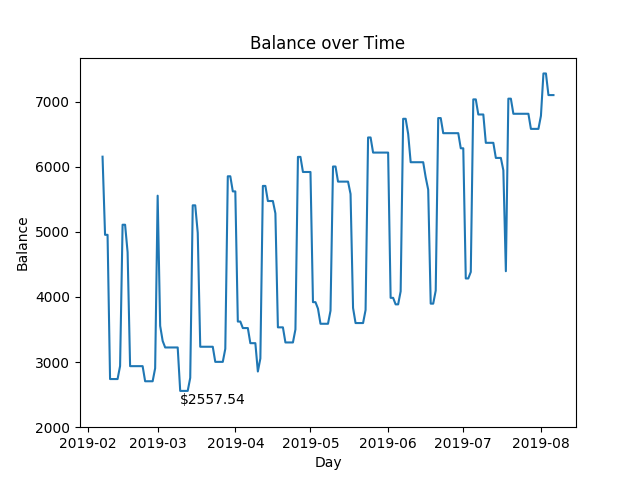
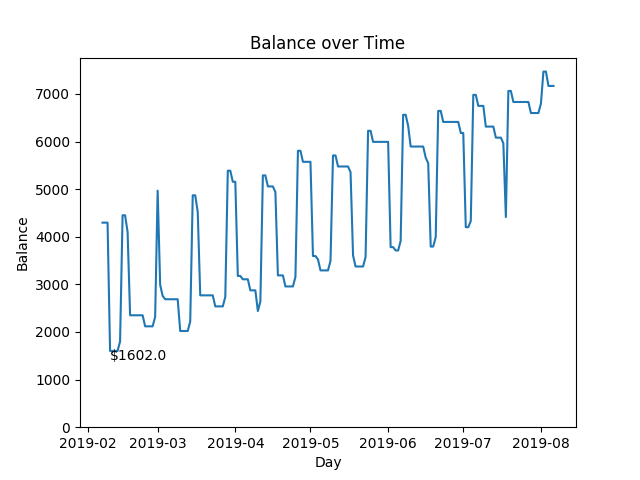
Daily Changes: Feb 7 and 9, 2019

diff --git a/output/html/2019-02-09.html b/output/html/2019-02-09.html
@@ -12,11 +12,11 @@
     
     </style>
     <div>
-        <h1>Financial Status as of 2019-02-07</h1>
+        <h1>Financial Status as of 2019-02-09</h1>
         <br />
         <div>
-            <img src="///Users/jacob/personal/adder/output/2019-02-07.png" />
-            <img src="///Users/jacob/personal/adder/output/budget-2019-02-07.png"/>
+            <img src="///Users/jacob/personal/adder/output/2019-02-09.png" />
+            <img src="///Users/jacob/personal/adder/output/budget-2019-02-09.png"/>
         </div>
         <div>
             <table>
@@ -26,7 +26,7 @@
 <tbody>
 <tr><td>debt      </td><td style="text-align: right;">-1750</td><td style="text-align: right;">     30.7 </td></tr>
 <tr><td>rent      </td><td style="text-align: right;">-1899</td><td style="text-align: right;">     33.32</td></tr>
-<tr><td>bill      </td><td style="text-align: right;"> -704</td><td style="text-align: right;">     12.35</td></tr>
+<tr><td>bill      </td><td style="text-align: right;"> -670</td><td style="text-align: right;">     11.75</td></tr>
 <tr><td>travel    </td><td style="text-align: right;"> -528</td><td style="text-align: right;">      9.26</td></tr>
 <tr><td>food      </td><td style="text-align: right;"> -400</td><td style="text-align: right;">      7.02</td></tr>
 </tbody>
@@ -37,20 +37,20 @@
 <tr><th>Stat           </th><th style="text-align: right;">  Value</th></tr>
 </thead>
 <tbody>
-<tr><td>MinimumBalance </td><td style="text-align: right;">   1602</td></tr>
-<tr><td>AverageBalance </td><td style="text-align: right;">   4561</td></tr>
-<tr><td>DipInCurrentBal</td><td style="text-align: right;">   2695</td></tr>
+<tr><td>MinimumBalance </td><td style="text-align: right;">   1363</td></tr>
+<tr><td>AverageBalance </td><td style="text-align: right;">   4469</td></tr>
+<tr><td>DipInCurrentBal</td><td style="text-align: right;">   3345</td></tr>
 </tbody>
 </table>
             <br>
             <table>
 <tbody>
-<tr><td>Expenses</td><td style="text-align: right;">-5281</td></tr>
+<tr><td>Expenses</td><td style="text-align: right;">-5247</td></tr>
 <tr><td>Income  </td><td style="text-align: right;"> 5700</td></tr>
 </tbody>
 </table>
             <br>
         </div>
-        We bought LEDs, kitchen ware, upped our monthly rent by $200 and spent $1700 to switch appartments
+        Sold tires, downgraded comcast, resumed 8 hour weeks for booper.
     </div>
     

diff --git a/data/reality.py b/data/reality.py
@@ -2,60 +2,61 @@
 
 # stdlib
 from datetime import datetime
-from dateutil.relativedelta import relativedelta
 from tabulate import tabulate
-from scratchpad.build_html import make_html
+from dateutil.relativedelta import relativedelta
 
 # local
 from delta import Account
-from delta import BalanceSheet
+from delta import Report
 from delta import Schedule
 from delta import Once
 from delta import Transaction
-from delta import TransactionSet
+from delta import Log
+from delta import Monthly
+from scratchpad.build_html import make_html
 
-# Income
-Bridgewater = Schedule(start=datetime(2019,1,18), interval=relativedelta(weeks=2))
-ChickFilA = Schedule(start=datetime(2019,1,17), interval=relativedelta(weeks=2))
 
-# Schedules
-MonthlyOn = lambda day: Schedule(start=datetime(2019,1,day), interval=relativedelta(months=1))
-EverySunday = Schedule(start=datetime(2019,1,20), interval=relativedelta(weeks=1))
-RyanKautz = Schedule(start=datetime(2019,1,18), interval=relativedelta(months=1), end=datetime(2019,8,1))
+####### REPORT SCHEDULES
+Bridgewater     = Schedule(start=datetime(2019,1,18), interval=relativedelta(weeks=2))
+ChickFilA       = Schedule(start=datetime(2019,1,17), interval=relativedelta(weeks=2))
+Weekly          = Schedule(start=datetime(2019,1,20), interval=relativedelta(weeks=1))
+RyanKautz       = Schedule(start=datetime(2019,1,18), interval=relativedelta(months=1), end=datetime(2019,8,1))
 
+####### ACCOUNTS
 accounts = [
-    Account(name="360 Checking",    balance=118),
-    Account(name="360 Savings",     balance=4179),
+
+    Account(name="Checking", balance=149),
+    Account(name="Savings", balance=4559)
+
 ]
 
-transactions = [
-    # Income
-    Transaction(name="Bridgewater",     category="income",      schedule=Bridgewater,       value=2650,     monthly=5300),
-    Transaction(name="ChickFilA",       category="income",      schedule=ChickFilA,         value=100,      monthly=200),
+####### TRANSACTIONS
+txs = [
 
-    # Expenses
-    Transaction(name="Ryan",            category="debt",         schedule=RyanKautz,        value=-1750),
-    Transaction(name="1KennedyFlats",   category="rent",         schedule=MonthlyOn(2),     value=-1899,    autopay=True),
-    Transaction(name="1KF-Utils",       category="rent",         schedule=MonthlyOn(2),     value=-80,      autopay=True),
-    Transaction(name="Sprint",          category="bills",        schedule=MonthlyOn(10),    value=-435,     autopay=True),
-    Transaction(name="Eversource",      category="bills",        schedule=MonthlyOn(4),     value=-70,      autopay=True),
-    Transaction(name="Comcast",         category="bills",        schedule=MonthlyOn(17),    value=-119,     autopay=False),
-    Transaction(name="Transport",       category="transport",    schedule=EverySunday,      value=-132,     monthly=-528),
-    Transaction(name="Food",            category="food",         schedule=EverySunday,      value=-100,     monthly=-400),
+    Transaction(name="Bridgewater",     category="income",  schedule=Bridgewater,       value=2650,     monthly=5300),       ### INCOME
+    Transaction(name="ChickFilA",       category="income",  schedule=ChickFilA,         value=200,      monthly=400),
+    
+    Transaction(name="Ryan",            category="debt",    schedule=RyanKautz,         value=-1750,    autopay=False),      ### BILLS
+    Transaction(name="1KF",             category="rent",    schedule=Monthly(2),        value=-1899,    autopay=True),
+    Transaction(name="1KF-Util",        category="bill",    schedule=Monthly(2),        value=-80,      autopay=True),
+    Transaction(name="Sprint",          category="bill",    schedule=Monthly(10),       value=-435,     autopay=True),
+    Transaction(name="Eversource",      category="bill",    schedule=Monthly(4),        value=-70,      autopay=True),
+    Transaction(name="Comcast",         category="bill",    schedule=Monthly(17),       value=-85,      autopay=False),
+    Transaction(name="Transport",       category="travel",  schedule=Weekly,            value=-132,     monthly=-528),
+    Transaction(name="Food",            category="food",    schedule=Weekly,            value=-100,     monthly=-400),
+    
+    Transaction(name="Fair",            category="once",    schedule=Once(2019,2,10),   value=-545),                         ### WINDFALLS
+    Transaction(name="HalfFair",        category="once",    schedule=Once(2019,2,10),   value=-280),
+    Transaction(name="TowCar",          category="once",    schedule=Once(2019,2,10),   value=-200),
+    Transaction(name="Mechanic",        category="once",    schedule=Once(2019,2,10),   value=-1875),
+    Transaction(name="CTTaxReturn",     category="once",    schedule=Once(2019,2,10),   value=222)
 
-    # Windfalls
-    Transaction(name="Fair",            category="once",        schedule=Once(2019,2,10),   value=-545),
-    Transaction(name="HalfFair",        category="once",        schedule=Once(2019,2,15),   value=-280),
-    Transaction(name="TowCar",          category="once",        schedule=Once(2019,2,15),   value=-200),
-    Transaction(name="Mechanic",        category="once",        schedule=Once(2019,2,10),   value=-1875),
-    Transaction(name="CTTaxReturn",     category="once",        schedule=Once(2019,2,10),   value=222)
 ]
 
-REPORT_LEGTH_MONTHS = 6
-SHOW_ROWS = 15
+REPORT_LENGTH = 6
 
-tx_set = TransactionSet(transactions=transactions, end=datetime.today() + relativedelta(months=REPORT_LEGTH_MONTHS))
-bal = BalanceSheet(log=tx_set.log, accounts=accounts)
+tx_set = Log(transactions=txs, end=datetime.today() + relativedelta(months=REPORT_LENGTH))
+bal = Report(log=tx_set.log, accounts=accounts)
 
 if __name__ == "__main__":
 

diff --git a/Delta/report.py b/Delta/report.py
@@ -17,6 +17,7 @@ class TransactionSet:
         self.date = datetime.now()
         self.date = self.date.replace(hour=0, minute=0, second=0, microsecond=0)
         self.transactions = kwargs.get("transactions")
+        self.budget = self.get_budget()
 
     def day_range(self):
         i = 0
@@ -37,7 +38,6 @@ class TransactionSet:
 
     def budget_plot(self):
         budget = self.budget["budget"]
-        total = self.budget["expenses"]
         # Pie chart, where the slices will be ordered and plotted counter-clockwise:
         labels = [s[0] for s in budget]
         sizes = [float(s[2]) / 100 for s in budget]
@@ -50,8 +50,7 @@ class TransactionSet:
         plt.savefig(f'output/budget-{datetime.now().strftime("%Y-%m-%d")}.png')
         plt.clf()
 
-    @property
-    def budget(self):
+    def get_budget(self):
         budget = dict(expenses=0, income=0, category={}, budget=[])
 
         for tx in self.transactions:
@@ -69,7 +68,7 @@ class TransactionSet:
             budget["budget"].append([
                 f"{cat}",
                 f"{val}",
-                str(round(val / budget["expenses"] * 100, 2))
+                str(round(abs(val) / abs(budget["income"]) * 100, 2))
             ])
 
         return budget
@@ -134,7 +133,7 @@ class BalanceSheet:
 
         plt.annotate(f'${ymin}', xy=(xmin, ymin), xytext=(xmin, ymin-200))
         axes = plt.gca()
-        axes.set_ylim([2000, None])
+        axes.set_ylim([0, None])
 
         plt.locator_params(numticks=25)
         plt.savefig(f'output/{datetime.now().strftime("%Y-%m-%d")}.png')

diff --git a/Delta/__init__.py b/Delta/__init__.py
@@ -2,5 +2,10 @@ from delta.account import Account
 from delta.schedule import Schedule
 from delta.schedule import Once
 from delta.transaction import Transaction
-from delta.report import TransactionSet
-from delta.report import BalanceSheet
+from delta.report import TransactionSet as Log
+from delta.report import BalanceSheet as Report
+
+from datetime import datetime
+from dateutil.relativedelta import relativedelta
+
+Monthly = lambda day: Schedule(start=datetime(2019,1,day), interval=relativedelta(months=1))
